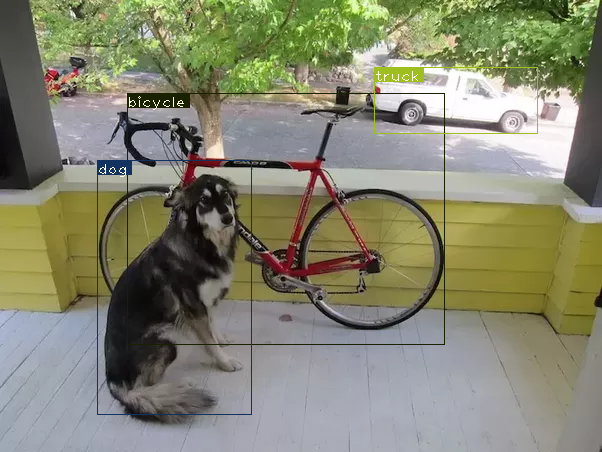
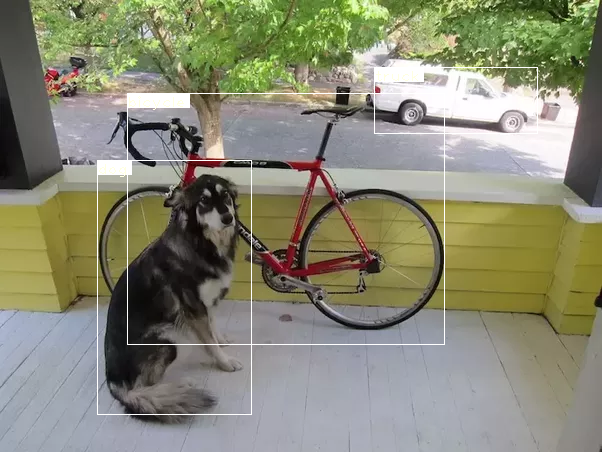
Demo working properly

diff --git a/model/utils.py b/model/utils.py
@@ -202,6 +202,8 @@ def write_results(prediction, confidence, num_classes, nms=True, nms_conf=0.4):
     # for all images
     write = False
 
+    print(100)
+
     for ind in range(batch_size):
         # The prediction tensor at ind is saying select the current image
         # in a batch. If this batch is one, then you get one image.
@@ -241,10 +243,9 @@ def write_results(prediction, confidence, num_classes, nms=True, nms_conf=0.4):
             # Reduce non_zero_ind to 1d tensor size of ([16]), which selects all the
             # rows at those indexes (since we're passing a list to the image_pred tensor
             # row param), plus all the columns of data in those rows (the ':'). That
-            # returns a [16 x 7] tensor. If there are errors, we can add the view, but
-            # it seems unnecesssary at this point
-            # image_pred_ = image_pred[non_zero_ind.squeeze(),:].view(-1,7)
-            image_pred_ = image_pred[non_zero_ind.squeeze(), :]
+            # returns a [16 x 7] tensor.
+            image_pred_ = image_pred[non_zero_ind.squeeze(), :].view(-1, 7)
+
         except:
             continue
 

diff --git a/demo.py b/demo.py
@@ -75,14 +75,15 @@ def write(x, results):
     c2 = tuple(x[3:5].int())
     img = results
     cls = int(x[-1])
-    color = random.choice(colors)
+    # color = random.choice(colors)
+    color = (255, 255, 255)
     label = "{0}".format(classes[cls])
     cv2.rectangle(img, c1, c2, color, 1)
     t_size = cv2.getTextSize(label, cv2.FONT_HERSHEY_PLAIN, 1, 1)[0]
     c2 = c1[0] + t_size[0] + 3, c1[1] + t_size[1] + 4
     cv2.rectangle(img, c1, c2, color, -1)
     cv2.putText(img, label, (c1[0], c1[1] + t_size[1] + 4),
-                cv2.FONT_HERSHEY_PLAIN, 1, [225, 255, 255], 1)
+                cv2.FONT_HERSHEY_PLAIN, 1, [0, 0, 0], 1)
     return img
 
 
@@ -144,7 +145,7 @@ while cap.isOpened():
                 output[i, [2, 4]], 0.0, im_dim[i, 1])
 
         classes = load_classes('data/coco.names')
-        colors = pkl.load(open("pallete", "rb"))
+        # colors = pkl.load(open("pallete", "rb"))
 
         list(map(lambda x: write(x, frame), output))
 

diff --git a/detect.py b/detect.py
@@ -17,7 +17,7 @@ import random
 
 def arg_parse():
     """
-    Parse arguements to the detect module
+    Parse arguments to the detect module
 
     """
 
@@ -180,7 +180,7 @@ for i in range(output.shape[0]):
 
 output_recast = time.time()
 class_load = time.time()
-colors = pkl.load(open("pallete", "rb"))
+# colors = pkl.load(open("pallete", "rb"))
 
 draw = time.time()
 
@@ -190,7 +190,8 @@ def write(x, results):
     c2 = tuple(x[3:5].int())
     img = results[int(x[0])]
     cls = int(x[-1])
-    color = random.choice(colors)
+    # color = random.choice(colors)
+    color = (255, 255, 255)
     label = "{0}".format(classes[cls])
     cv2.rectangle(img, c1, c2, color, 1)
     t_size = cv2.getTextSize(label, cv2.FONT_HERSHEY_PLAIN, 1, 1)[0]
